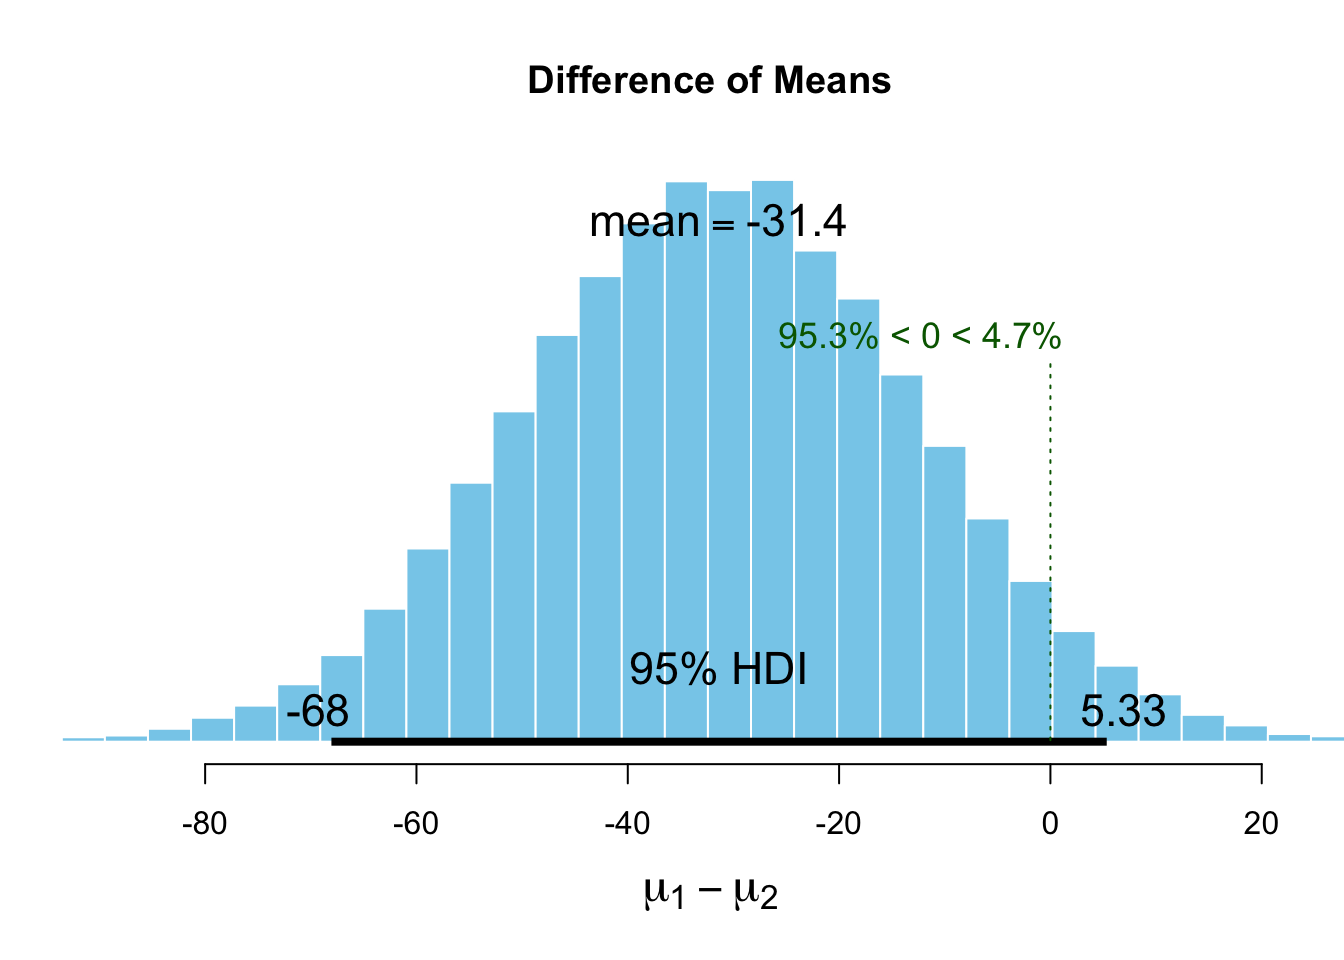
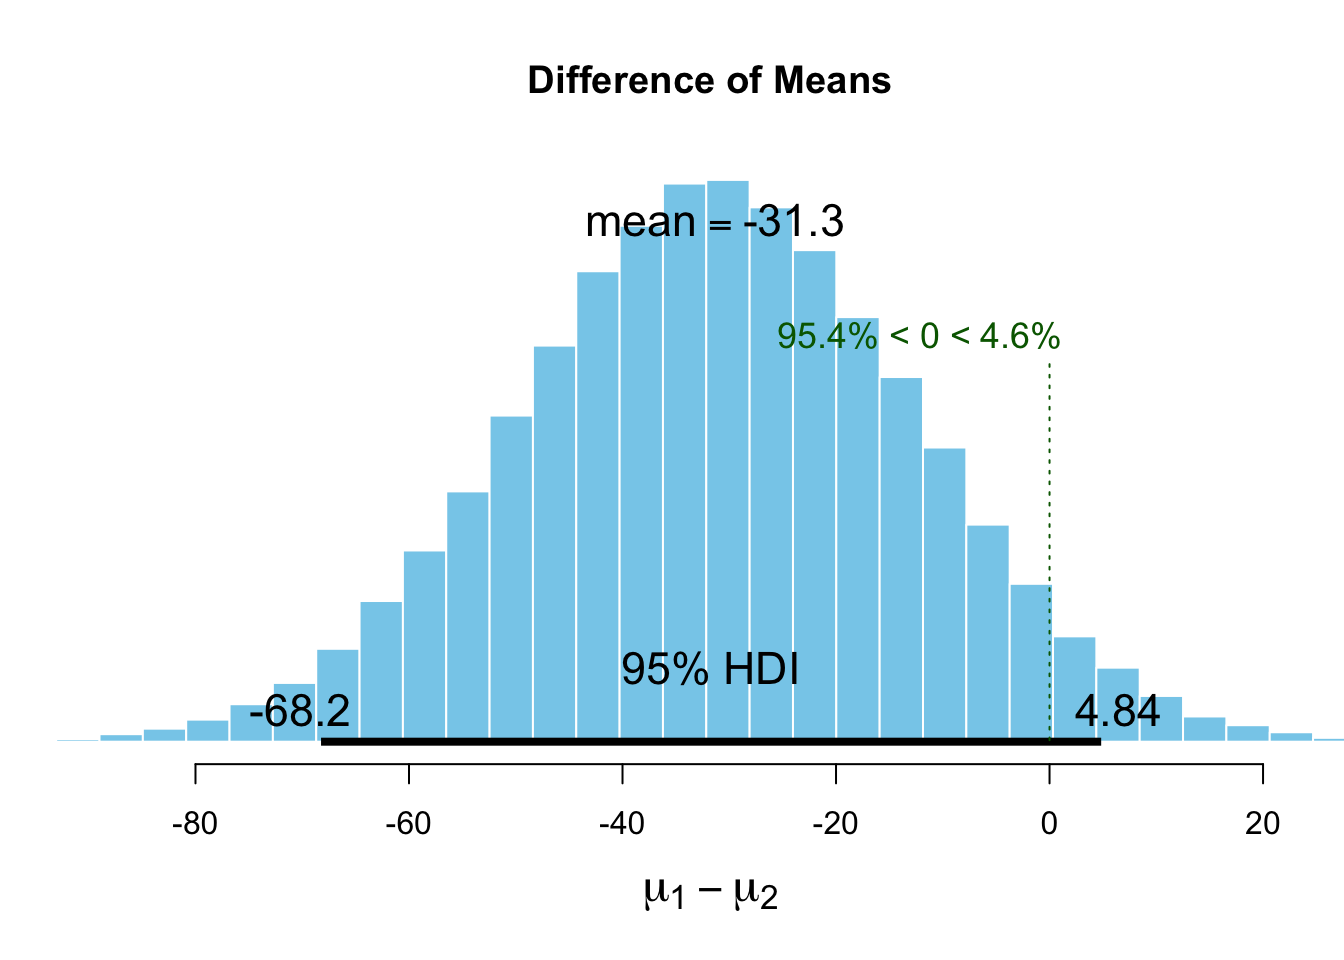
small changes

diff --git a/Sociometric_bayesian.html b/Sociometric_bayesian.html
@@ -257,15 +257,15 @@ Speaking_best_priors &lt;- BESTmcmc(sociometric.tagged$speech_profile_total_spea
 speaking.summary &lt;- summary(Speaking_best)
 speaking.summary</code></pre>
 <pre><code>##              mean  median    mode HDI%   HDIlo    HDIup compVal %&gt;compVal
-## mu1       617.624 617.677 618.005   95 592.217 642.6381                  
-## mu2       649.008 649.018 649.056   95 622.189 675.5687                  
-## muDiff    -31.384 -31.337 -27.271   95 -68.049   5.3302       0      4.67
-## sigma1    113.620 113.172 110.918   95  94.878 133.5228                  
-## sigma2    122.888 122.542 121.781   95 102.103 144.4479                  
-## sigmaDiff  -9.267  -9.265 -10.010   95 -36.253  18.1724       0     24.84
-## nu         38.349  29.804  14.491   95   3.968  97.9283                  
-## log10nu     1.469   1.474   1.474   95   0.846   2.0607                  
-## effSz      -0.266  -0.265  -0.254   95  -0.572   0.0472       0      4.67</code></pre>
+## mu1       617.629 617.647 617.375   95 592.560 642.6797                  
+## mu2       648.930 648.945 649.477   95 622.387 675.6908                  
+## muDiff    -31.301 -31.308 -31.851   95 -68.239   4.8370       0      4.57
+## sigma1    113.547 113.134 111.539   95  94.918 133.4706                  
+## sigma2    122.838 122.487 121.397   95 101.861 144.8052                  
+## sigmaDiff  -9.291  -9.178  -8.512   95 -36.859  17.2257       0     24.74
+## nu         38.062  29.252  14.841   95   3.957  97.8714                  
+## log10nu     1.463   1.466   1.525   95   0.835   2.0641                  
+## effSz      -0.265  -0.265  -0.276   95  -0.568   0.0478       0      4.57</code></pre>
 <pre class="r"><code>#Creating a plot of the posterior distribution for the difference between groups
 plot(Speaking_best) #the probability that the true value is smaller than zero = 95.5%</code></pre>
 <p><img src="Sociometric_bayesian_files/figure-html/unnamed-chunk-4-1.png" width="672" /></p>
@@ -286,16 +286,16 @@ total_volume_best &lt;- BESTmcmc(sociometric.tagged$audio_front_volume_SCALED[so
 <pre class="r"><code># check the output
 total_volume.summary &lt;- summary(total_volume_best)
 total_volume.summary</code></pre>
-<pre><code>##              mean  median    mode HDI%  HDIlo   HDIup compVal %&gt;compVal
-## mu1       -0.1027 -0.1043 -0.1131   95 -0.303  0.0993                  
-## mu2       -0.0717 -0.0722 -0.0671   95 -0.296  0.1446                  
-## muDiff    -0.0310 -0.0314 -0.0501   95 -0.316  0.2544       0      41.6
-## sigma1     0.8203  0.8174  0.8151   95  0.633  1.0119                  
-## sigma2     0.9057  0.9019  0.8893   95  0.712  1.1035                  
-## sigmaDiff -0.0854 -0.0849 -0.0806   95 -0.304  0.1362       0      22.0
-## nu        11.3562  7.7543  5.2496   95  2.289 31.5932                  
-## log10nu    0.9417  0.8895  0.8106   95  0.476  1.5449                  
-## effSz     -0.0361 -0.0363 -0.0548   95 -0.360  0.3025       0      41.6</code></pre>
+<pre><code>##              mean  median    mode HDI%  HDIlo  HDIup compVal %&gt;compVal
+## mu1       -0.1032 -0.1046 -0.0998   95 -0.307  0.100                  
+## mu2       -0.0729 -0.0743 -0.0811   95 -0.291  0.147                  
+## muDiff    -0.0303 -0.0308 -0.0399   95 -0.315  0.256       0      41.6
+## sigma1     0.8209  0.8179  0.8125   95  0.634  1.015                  
+## sigma2     0.9059  0.9019  0.8878   95  0.717  1.109                  
+## sigmaDiff -0.0850 -0.0847 -0.0850   95 -0.311  0.132       0      22.2
+## nu        11.3982  7.7409  5.1934   95  2.298 32.126                  
+## log10nu    0.9420  0.8888  0.7919   95  0.474  1.549                  
+## effSz     -0.0352 -0.0357 -0.0502   95 -0.370  0.292       0      41.6</code></pre>
 <pre class="r"><code>#Creating a plot of the posterior distribution for the difference between groups
 plot(total_volume_best)</code></pre>
 <p><img src="Sociometric_bayesian_files/figure-html/unnamed-chunk-5-1.png" width="672" /></p>
@@ -317,15 +317,15 @@ variation_volume_best &lt;- BESTmcmc(sociometric.tagged$audio_front_vol_consiste
 variation_volume.summary &lt;- summary(variation_volume_best)
 variation_volume.summary</code></pre>
 <pre><code>##              mean  median    mode HDI%  HDIlo   HDIup compVal %&gt;compVal
-## mu1        0.0366  0.0360  0.0289   95 -0.186   0.257                  
-## mu2       -0.0546 -0.0549 -0.0648   95 -0.261   0.157                  
-## muDiff     0.0912  0.0910  0.0995   95 -0.213   0.395       0      72.3
-## sigma1     1.0049  0.9997  0.9867   95  0.853   1.179                  
-## sigma2     0.9783  0.9741  0.9699   95  0.833   1.142                  
-## sigmaDiff  0.0266  0.0261  0.0267   95 -0.195   0.249       0      59.3
-## nu        46.8655 38.7831 24.6325   95  6.352 108.954                  
-## log10nu    1.5825  1.5886  1.6312   95  1.037   2.115                  
-## effSz      0.0920  0.0919  0.0964   95 -0.210   0.400       0      72.3</code></pre>
+## mu1        0.0351  0.0348  0.0334   95 -0.188   0.254                  
+## mu2       -0.0542 -0.0539 -0.0483   95 -0.262   0.156                  
+## muDiff     0.0893  0.0887  0.0820   95 -0.209   0.397       0      72.1
+## sigma1     1.0046  0.9999  0.9891   95  0.849   1.173                  
+## sigma2     0.9782  0.9740  0.9735   95  0.830   1.140                  
+## sigmaDiff  0.0264  0.0261  0.0248   95 -0.197   0.247       0      59.2
+## nu        47.0850 38.8015 23.4060   95  6.368 110.510                  
+## log10nu    1.5836  1.5888  1.5960   95  1.025   2.113                  
+## effSz      0.0902  0.0898  0.0857   95 -0.212   0.397       0      72.1</code></pre>
 <pre class="r"><code>#Creating a plot of the posterior distribution for the difference between groups
 plot(variation_volume_best)</code></pre>
 <p><img src="Sociometric_bayesian_files/figure-html/unnamed-chunk-6-1.png" width="672" /></p>
@@ -335,96 +335,6 @@ plotPostPred(variation_volume_best)</code></pre>
 <pre class="r"><code>#to see all plots
 plotAll(variation_volume_best)</code></pre>
 <p><img src="Sociometric_bayesian_files/figure-html/unnamed-chunk-6-3.png" width="672" /></p>
-<pre class="r"><code>#Creating tables for the manuscript
-simple_speaking &lt;- data.frame(row.names = &quot;Speaking Duration&quot;,
-                         Control_mu = speaking.summary[2,1],
-                         Control_sigma = speaking.summary[5,1],
-                         SD_mu = speaking.summary[1,1],
-                         SD_sigma = speaking.summary[4,1],
-                         Difference_mean = speaking.summary[3,1],
-                         HDI_low = speaking.summary[3,5],
-                         HDI_High = speaking.summary[3,6],
-                         Effect_size = speaking.summary[9,1])
-
-simple_volume_average &lt;- data.frame(row.names = &quot;Speech Volume Average&quot;,
-                         Control_mu = total_volume.summary[2,1],
-                         Control_sigma = total_volume.summary[5,1],
-                         SD_mu = total_volume.summary[1,1],
-                         SD_sigma = total_volume.summary[4,1],
-                         Difference_mean = total_volume.summary[3,1],
-                         HDI_low = total_volume.summary[3,5],
-                         HDI_High = total_volume.summary[3,6],
-                         Effect_size = total_volume.summary[9,1])
-
-simple_volume_variation &lt;- data.frame(row.names = &quot;Speech Volume Variation&quot;,
-                         Control_mu = variation_volume.summary[2,1],
-                         Control_sigma = variation_volume.summary[5,1],
-                         SD_mu = variation_volume.summary[1,1],
-                         SD_sigma = variation_volume.summary[4,1],
-                         Difference_mean = variation_volume.summary[3,1],
-                         HDI_low = variation_volume.summary[3,5],
-                         HDI_High = variation_volume.summary[3,6],
-                         Effect_size = variation_volume.summary[9,1])
-  
-Sociometric_table &lt;- rbind(simple_speaking, simple_volume_average, simple_volume_variation)
-Sociometric_table &lt;- round(Sociometric_table,2)
-Sociometric_APA_table &lt;- cbind(Outcome = row.names(Sociometric_table), Sociometric_table)
-
-myoriginalwd &lt;- getwd()
-setwd(&quot;Tables_and_plots&quot;)
-apa.table(data = Sociometric_APA_table,
-          level1.header = c(&quot;&quot;,
-                            &quot;Control sleep&quot;, 
-                            &quot;Sleep deprivation&quot;, 
-                            &quot;Difference&quot;),
-          level1.colspan = c(1,2,2,4),
-          level2.header = colnames(Sociometric_APA_table),
-          number = &quot;4&quot;,
-          title = &quot;Bayesian Estimation of group differences in sociometric output&quot;,
-          filename = &quot;Sociometric_table.docx&quot;,
-          note = &quot;Note. HDI = Highest Density Interval; Std.dev = residual standard deviation&quot;,
-          save = T)$table
-setwd(myoriginalwd)</code></pre>
-<pre class="r"><code>sociometric.speechduration.data &lt;- melt(cbind(&quot;sleep deprivation&quot; = Speaking_best$mu1, 
-                            &quot;control sleep&quot; = Speaking_best$mu2,
-                            &quot;prior&quot; = Speaking_best_priors$mu1))
-
-Speech.duration.plot &lt;- ggdensity(sociometric.speechduration.data, x = &quot;value&quot;, 
-   rug = F,
-   color = &quot;Var2&quot;,
-   fill = &quot;Var2&quot;,
-   xlim = c(550, 700),
-   xlab = &quot;Speech Duration&quot;,
-   add = &quot;mean&quot;,
-   palette = c(&quot;#E495A5&quot;, &quot;#39BEB1&quot;,&quot;#ABB065&quot;)) + 
-  stat_pointintervalh(aes(y = -0.025), 
-                      data = sociometric.speechduration.data[which(sociometric.speechduration.data$Var2 == &quot;sleep deprivation&quot;),], fun.data = mean_hdih, .prob = c(.95, .80), color = &quot;#E495A5&quot;) +
-  stat_pointintervalh(aes(y = -0.05), 
-                      data = sociometric.speechduration.data[which(sociometric.speechduration.data$Var2 == &quot;control sleep&quot;),], fun.data = mean_hdih, .prob = c(.95, .80), color = &quot;#39BEB1&quot;) +
-  annotate(&quot;text&quot;, label = &quot;80% and 95% HDI&quot;, x = 20.5, y = -0.044, hjust = 0, vjust = 0.3)
-
-#####
-
-sociometric.volumeVariation.data &lt;- melt(cbind(&quot;sleep deprivation&quot; = variation_volume_best$mu1, 
-                            &quot;control sleep&quot; = variation_volume_best$mu2))
-
-Speech.volume.plot &lt;- ggdensity(sociometric.volumeVariation.data, x = &quot;value&quot;, 
-   rug = F,
-   color = &quot;Var2&quot;,
-   fill = &quot;Var2&quot;,
-   xlim = c(0.53, 0.65),
-   xlab = &quot;Speech Volume Consistency (1 = max consistency)&quot;,
-   add = &quot;mean&quot;,
-   palette = c(&quot;#E495A5&quot;, &quot;#39BEB1&quot;)) + 
-  stat_pointintervalh(aes(y = -50), 
-                      data = sociometric.volume.data[which(sociometric.volumeVariation.data$Var2 == &quot;sleep deprivation&quot;),], fun.data = mean_hdih, .prob = c(.95, .80), color = &quot;#E495A5&quot;) +
-  stat_pointintervalh(aes(y = -100), 
-                      data = sociometric.volume.data[which(sociometric.volumeVariation.data$Var2 == &quot;control sleep&quot;),], fun.data = mean_hdih, .prob = c(.95, .80), color = &quot;#39BEB1&quot;) +
-  annotate(&quot;text&quot;, label = &quot;80% and 95% HDI&quot;, x = 0.014, y = -75, hjust = 0, vjust = 0.3)
-
-###
-sociometric.volumeVariation.data &lt;- melt(cbind(&quot;sleep deprivation&quot; = total_volume_best$mu1, 
-                            &quot;control sleep&quot; = total_volume_best$mu2))</code></pre>
 </div>
 </div>
 
